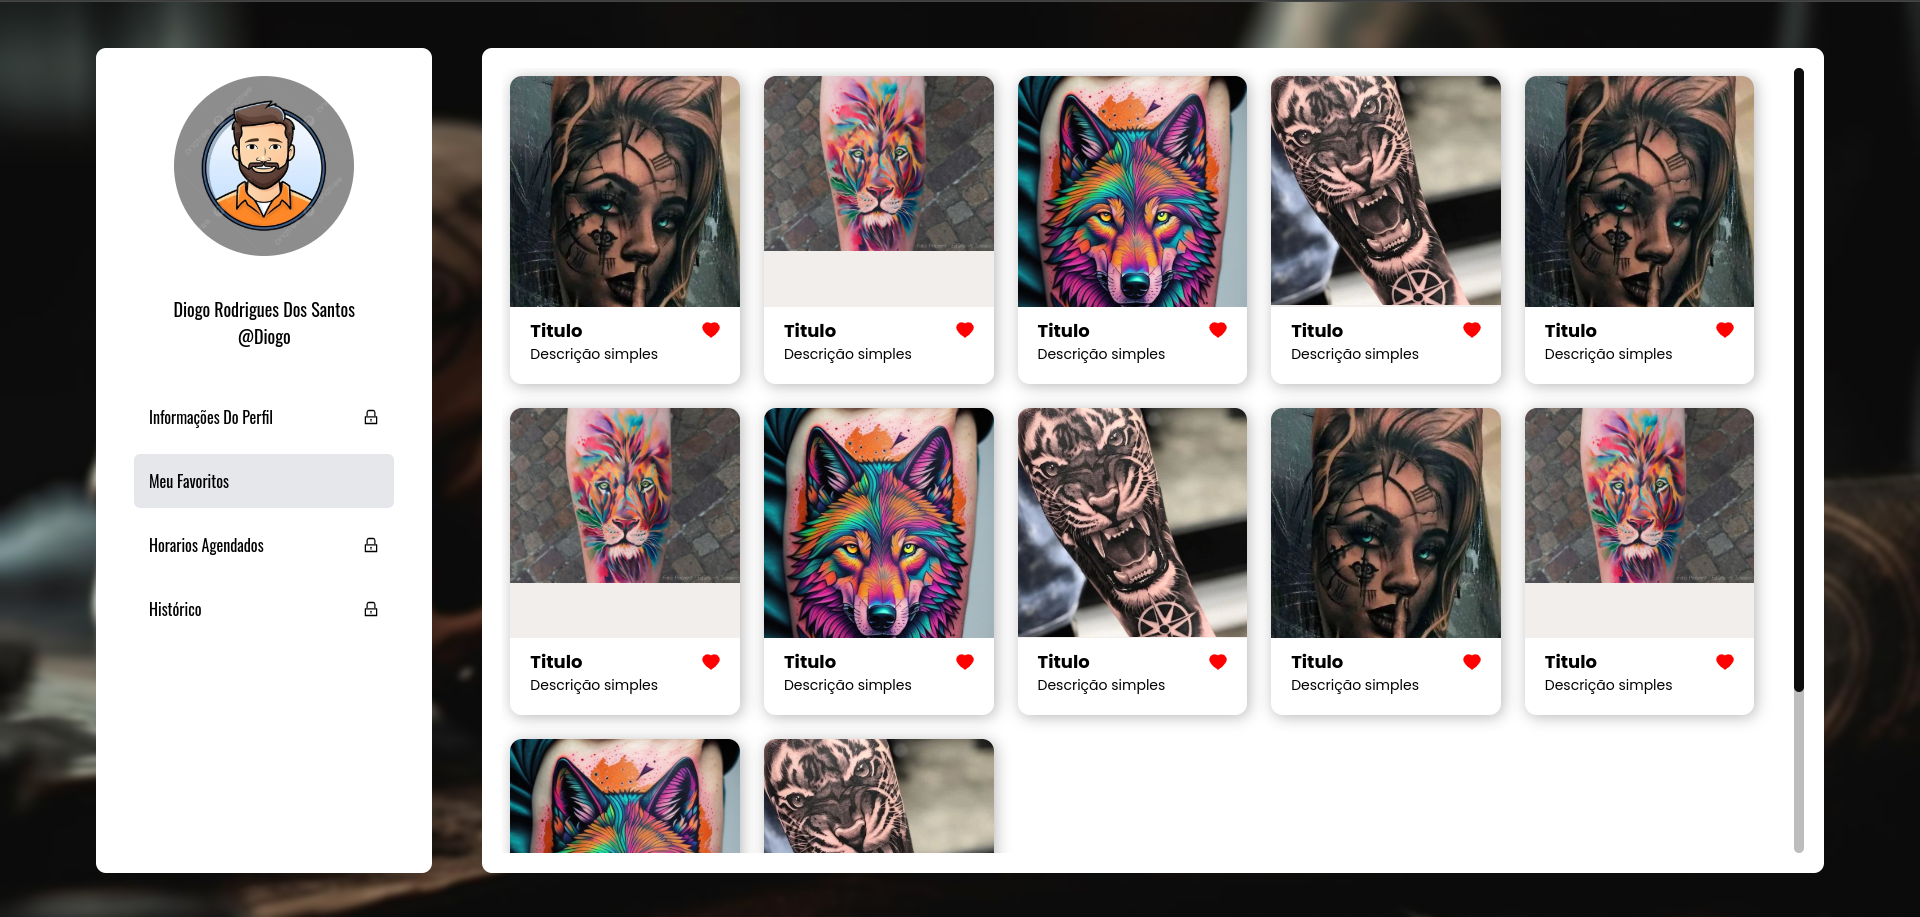
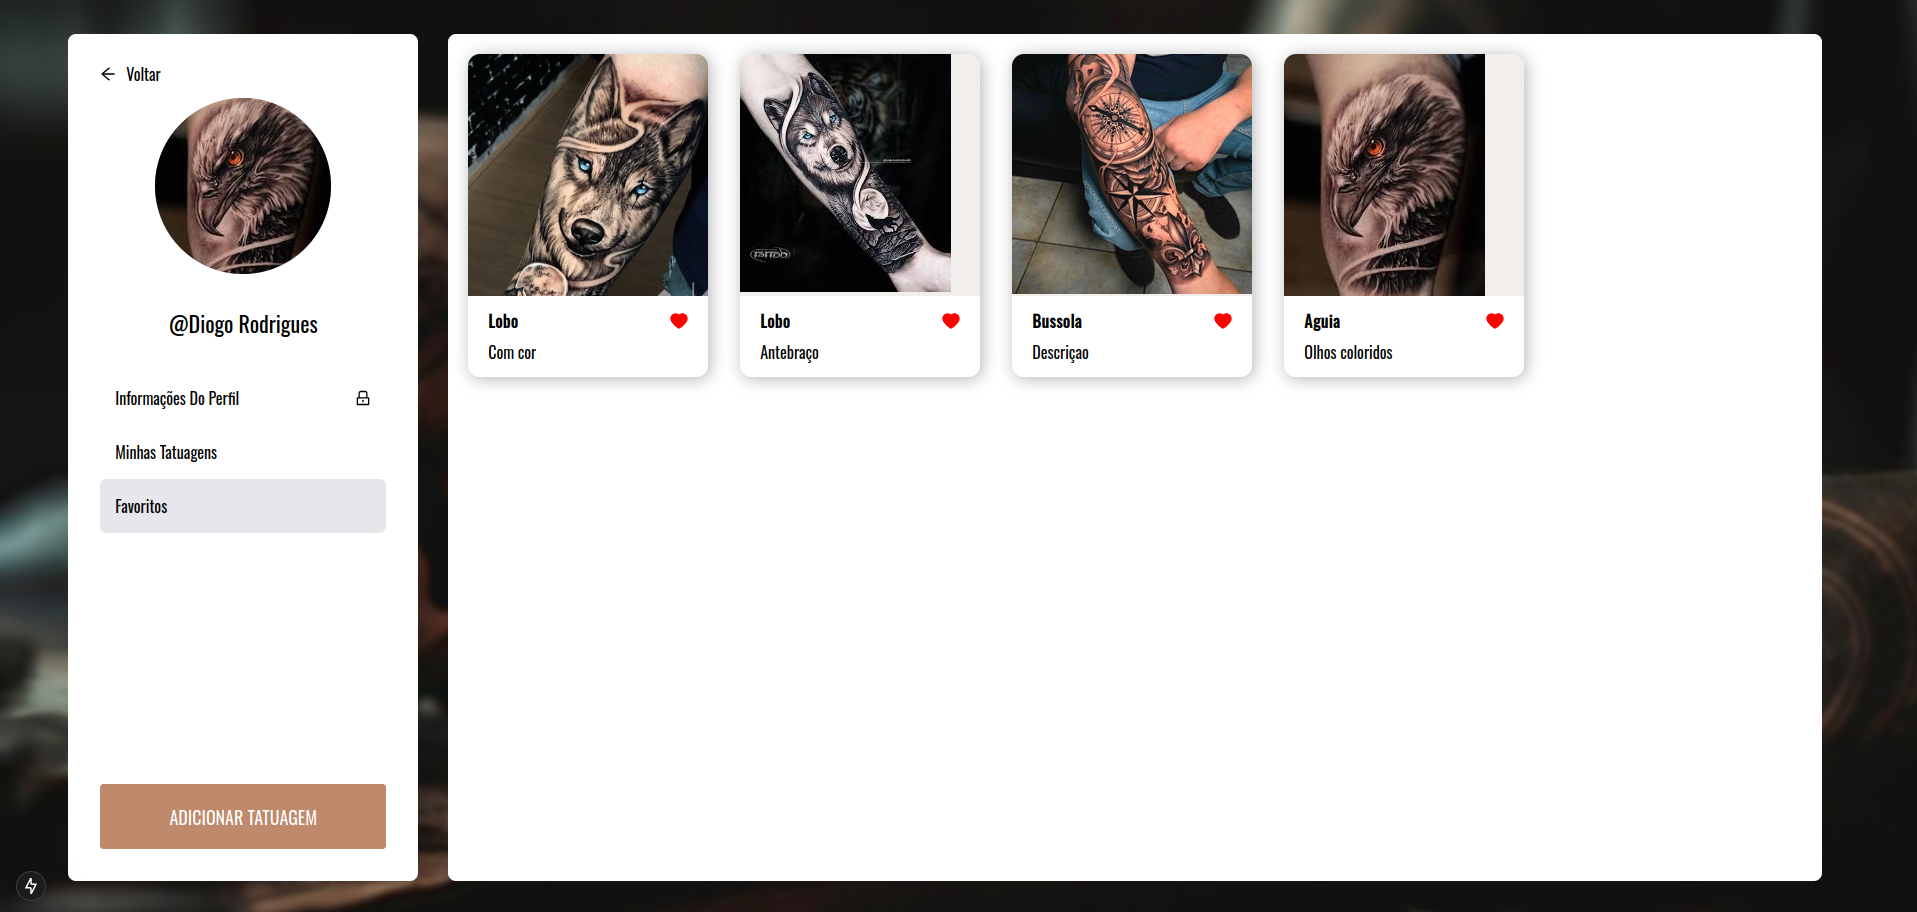
docs(readme): atualizando imagem das paginas

diff --git a/src/presentation/pages/private/profiles/tattoo-artist/components/left-box/left-box.tsx b/src/presentation/pages/private/profiles/tattoo-artist/components/left-box/left-box.tsx
@@ -1,6 +1,8 @@
 'use client'
 import { SchedulingTimes, TattooArtist } from '@/external/tattoo-artist/tattoo-artist.type'
 import { Box } from '@/presentation/components/box/box'
+import { ArrowLeftOutlined } from '@ant-design/icons'
+import { useRouter } from 'next/navigation'
 import { useState } from 'react'
 import SelectTab from '../../../../../../components/sidebar/select-tab'
 import { SchedulingTime } from './scheduling-times'
@@ -16,6 +18,7 @@ export interface ILeftBox {
 export const LeftBox = (props: ILeftBox) => {
   const { artist, content, changeTab, openModal } = props
   const [tabSelected, setTabSelect] = useState<string>('populary-jobs')
+  const navigate = useRouter()
 
   const getScheduling = (schedulings: SchedulingTimes[] | undefined) => {
     let result = 'Fechado'
@@ -37,39 +40,58 @@ export const LeftBox = (props: ILeftBox) => {
   const horario = (blocked: boolean) => (tabSelected == 'horario' && blocked ? teste : { cursor: 'default' })
 
   return (
-    <TattooArtistLeftBoxUI.Container className="flex flex-col items-center gap-5 w-full h-full" style={{ gap: '30px' }}>
-      <Box style={{ background: '#8d8d8d', height: '180px', width: '180px', borderRadius: '50%', overflow: 'hidden' }}>
-        <img
-          src="https://encrypted-tbn0.gstatic.com/images?q=tbn:ANd9GcQaDn4pdIrIiSa0yJAIlDj4aHIOEpQbbYinYg&s"
-          alt="profile-img"
-          style={{ height: '180px', width: '180px' }}
-        />
-      </Box>
-
-      <Box className="w-fullflex flex-col items-center">
-        <p style={{ fontSize: '18px' }}>@{props.artist?.name}</p>
-        <p style={{ fontSize: '18px', fontWeight: 'normal' }}></p>
-      </Box>
-
-      <Box className="w-full flex flex-col justify-start gap-1" style={{ width: '100%' }}>
-        <SelectTab style={schedulings(false)} blocked label="Agendamentos" />
-        <SelectTab style={popularyJobs(true)} label="Trabalhos Populares" />
-        <SelectTab style={feedbacks(true)} blocked label="Feedbacks" />
-        <SelectTab style={horario(true)} blocked label="Agende Seu Horário" />
-      </Box>
-
+    <TattooArtistLeftBoxUI.Container className="h-full flex flex-col justify-start">
       <Box
-        style={{ maxHeight: '26%', width: '100%', padding: '0px 15px' }}
-        className="w-fullflex flex-col justify-center items-start text-base overflow-x-hidden"
+        style={{
+          height: '3rem',
+          width: '100%',
+          display: 'flex',
+          justifyContent: 'flex-start',
+          alignItems: 'center',
+          gap: '10px',
+          cursor: 'pointer',
+        }}
+        className="hover:text-gray-200"
+        onClick={() => navigate.back()}
       >
-        <p>Horários de atendimento</p>
-        <SchedulingTime day="DOM:" hours={getScheduling(artist?.schedulings.sunday)} />
-        <SchedulingTime day="SEG:" hours={getScheduling(artist?.schedulings.monday)} />
-        <SchedulingTime day="TER:" hours={getScheduling(artist?.schedulings.tuesday)} />
-        <SchedulingTime day="QUA:" hours={getScheduling(artist?.schedulings.wednesday)} />
-        <SchedulingTime day="QUI:" hours={getScheduling(artist?.schedulings.thursday)} />
-        <SchedulingTime day="SEX:" hours={getScheduling(artist?.schedulings.friday)} />
-        <SchedulingTime day="SAB:" hours={getScheduling(artist?.schedulings.saturday)} />
+        <ArrowLeftOutlined /> Voltar
+      </Box>
+      <Box className="flex flex-col items-center gap-5 w-full h-full" style={{ gap: '30px' }}>
+        <Box
+          style={{ background: '#8d8d8d', height: '180px', width: '180px', borderRadius: '50%', overflow: 'hidden' }}
+        >
+          <img
+            src="https://encrypted-tbn0.gstatic.com/images?q=tbn:ANd9GcQaDn4pdIrIiSa0yJAIlDj4aHIOEpQbbYinYg&s"
+            alt="profile-img"
+            style={{ height: '180px', width: '180px' }}
+          />
+        </Box>
+
+        <Box className="w-fullflex flex-col items-center">
+          <p style={{ fontSize: '18px' }}>@{props.artist?.name}</p>
+          <p style={{ fontSize: '18px', fontWeight: 'normal' }}></p>
+        </Box>
+
+        <Box className="w-full flex flex-col justify-start gap-1" style={{ width: '100%' }}>
+          <SelectTab style={schedulings(false)} blocked label="Agendamentos" />
+          <SelectTab style={popularyJobs(true)} label="Trabalhos Populares" />
+          <SelectTab style={feedbacks(true)} blocked label="Feedbacks" />
+          <SelectTab style={horario(true)} blocked label="Agende Seu Horário" />
+        </Box>
+
+        <Box
+          style={{ maxHeight: '26%', width: '100%', padding: '0px 15px' }}
+          className="w-fullflex flex-col justify-center items-start text-base overflow-x-hidden"
+        >
+          <p>Horários de atendimento</p>
+          <SchedulingTime day="DOM:" hours={getScheduling(artist?.schedulings.sunday)} />
+          <SchedulingTime day="SEG:" hours={getScheduling(artist?.schedulings.monday)} />
+          <SchedulingTime day="TER:" hours={getScheduling(artist?.schedulings.tuesday)} />
+          <SchedulingTime day="QUA:" hours={getScheduling(artist?.schedulings.wednesday)} />
+          <SchedulingTime day="QUI:" hours={getScheduling(artist?.schedulings.thursday)} />
+          <SchedulingTime day="SEX:" hours={getScheduling(artist?.schedulings.friday)} />
+          <SchedulingTime day="SAB:" hours={getScheduling(artist?.schedulings.saturday)} />
+        </Box>
       </Box>
     </TattooArtistLeftBoxUI.Container>
   )

diff --git a/src/presentation/pages/private/profiles/tattoo-artist/components/right-box/tattoos-list/tattoo-list.tsx b/src/presentation/pages/private/profiles/tattoo-artist/components/right-box/tattoos-list/tattoo-list.tsx
@@ -20,14 +20,17 @@ export function TattooList({ id }: { id: string | string[] | undefined }) {
   if (isLoading) return <Loading />
 
   return (
-    <TattooListContainer className="flex gap-6 p-2 flex-wrap overflow-y-scroll w-full">
+    <TattooListContainer
+      className="flex gap-6 p-2 flex-wrap overflow-y-scroll w-full"
+      style={{ gap: '2rem', height: '100%' }}
+    >
       {data?.map((tattoo, index) => (
         <TattooCard
           key={index as Key}
           index={index}
           tattoo={tattoo}
           refetch={refetch}
-          style={{ maxHeight: '300px', minHeight: '280px', maxWidth: 'calc(20% - 24px)', minWidth: '200px' }}
+          style={{ width: '220px', height: '40%' }}
         />
       ))}
     </TattooListContainer>

diff --git a/src/presentation/pages/private/profiles/tattoo-artist/components/left-box/styles.ts b/src/presentation/pages/private/profiles/tattoo-artist/components/left-box/styles.ts
@@ -2,7 +2,7 @@ import styled from 'styled-components'
 
 const Container = styled.div`
   background-color: white;
-  padding: 2rem;
+  padding: 1rem 2rem;
   border-radius: 0.5rem;
 
   @media (max-width: 1080px) {

diff --git a/README.md b/README.md
@@ -4,8 +4,12 @@
 ![](./images/readme/login-redesign.png)
 ![](./images/readme/register-redesign.png)
 ![](./images/readme/home-page.png)
+![](./images/readme/home-redesign.png)
 ![](./images/readme/section-one.png)
 ![](./images/readme/section-one-ampliada.png)
 ![](./images/readme/tattoo-artist-profile.png)
+![](./images/readme/artist-profile-redesign.png)
 ![](./images/readme/tattoo-list.png)
+![](./images/readme/tattoo-list-redesign.png)
 ![](./images/readme/profile-me.png)
+![](./images/readme/my-tattoos.png)
